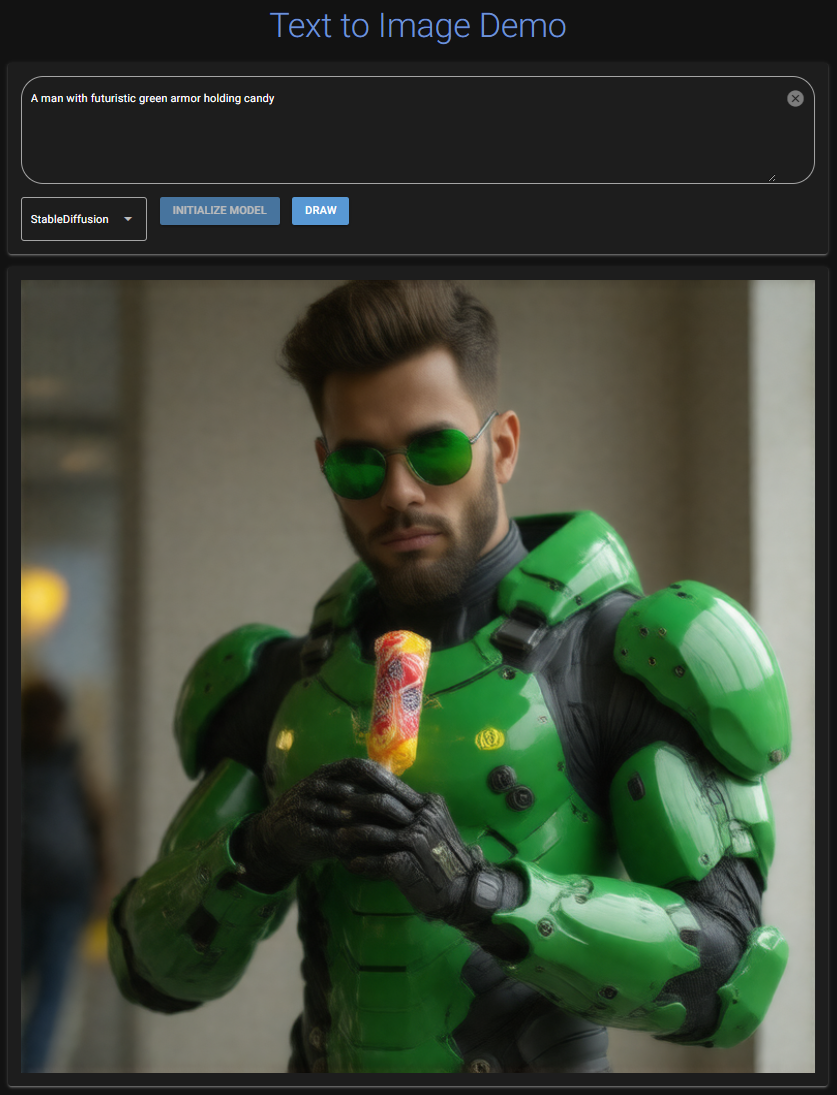
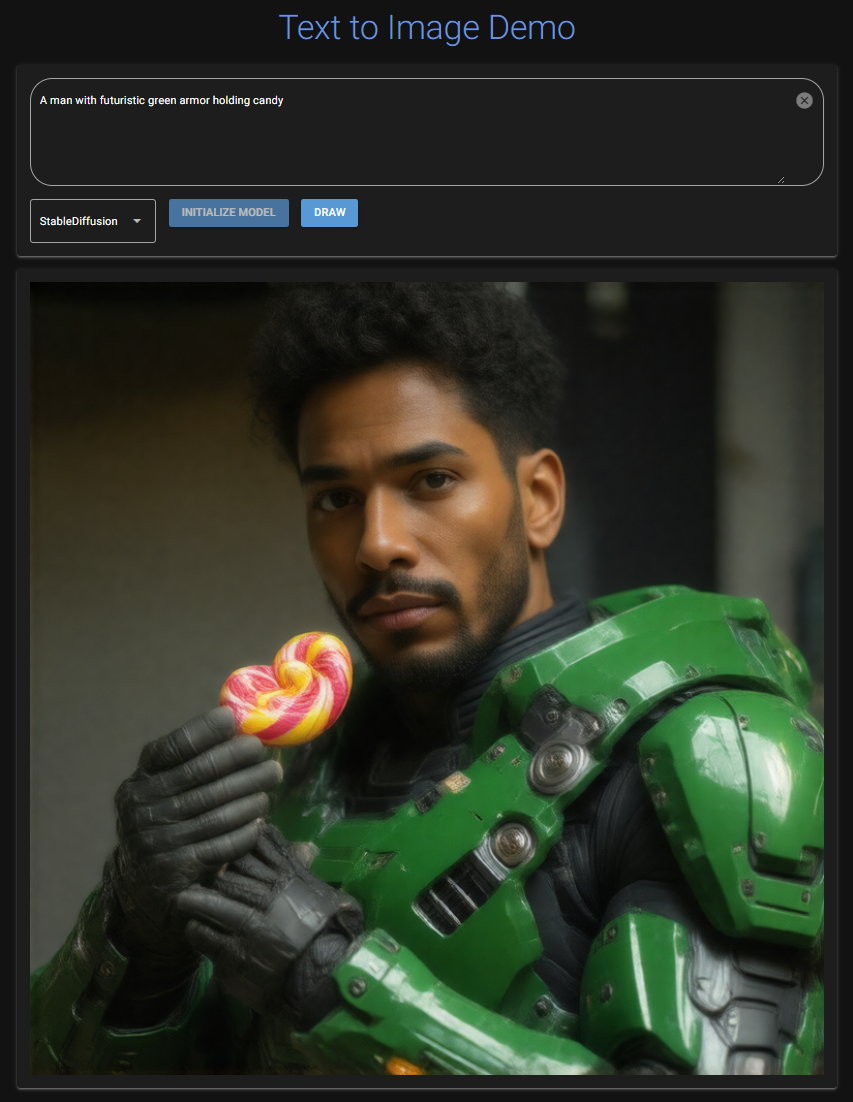
use quantize 4bit for flux.1

diff --git a/src/models/text2image/flux1.py b/src/models/text2image/flux1.py
@@ -1,9 +1,8 @@
 """Flux.1 implementation"""
-
 from .base_model import BaseT2IModel
 import torch
-from diffusers import FluxPipeline, FluxTransformer2DModel
-from transformers import T5EncoderModel, BitsAndBytesConfig
+from diffusers import FluxPipeline, FluxTransformer2DModel, BitsAndBytesConfig
+from transformers import T5EncoderModel
 
 
 class Flux1(BaseT2IModel):
@@ -14,12 +13,10 @@ class Flux1(BaseT2IModel):
         """Initialize model"""
         bfl_repo = "black-forest-labs/FLUX.1-schnell"
         dtype = torch.bfloat16
-        quantization_config = BitsAndBytesConfig(load_in_8bit=True)
-        text_encoder_2 = T5EncoderModel.from_pretrained(
-            bfl_repo, 
-            subfolder="text_encoder_2", 
-            quantization_config=quantization_config, 
-            torch_dtype=dtype
+        quantization_config = BitsAndBytesConfig(
+            load_in_4bit=True,
+            bnb_4bit_quant_type="nf4",
+            bnb_4bit_compute_dtype=dtype
         )
         transformer = FluxTransformer2DModel.from_pretrained(
             bfl_repo, 
@@ -27,14 +24,13 @@ class Flux1(BaseT2IModel):
             quantization_config=quantization_config, 
             torch_dtype=dtype
         )
+        t5_nf4 = T5EncoderModel.from_pretrained("diffusers/t5-nf4", torch_dtype=dtype)
         pipe = FluxPipeline.from_pretrained(
             bfl_repo,
-            text_encoder_2=None,
-            transformer=None,
-            torch_dtype=torch.bfloat16
+            text_encoder_2=t5_nf4,
+            transformer=transformer,
+            torch_dtype=dtype
         )
-        pipe.text_encoder_2 = text_encoder_2
-        pipe.transformer = transformer
         pipe = pipe.to("cuda")
         self.pipe = pipe
 
@@ -43,8 +39,7 @@ class Flux1(BaseT2IModel):
             prompt,
             width=768,
             height=768,
-            guidance_scale=3.5,
-            num_inference_steps=4,
-            generator=torch.Generator("cpu").manual_seed(0)
+            guidance_scale=2.0,
+            num_inference_steps=4
         ).images[0]
         return image

diff --git a/src/models/text2image/stable_diffusion.py b/src/models/text2image/stable_diffusion.py
@@ -1,3 +1,4 @@
+"""Stable Diffusion 3.5 Large Turbo"""
 from .base_model import BaseT2IModel
 import torch
 from diffusers import StableDiffusion3Pipeline, BitsAndBytesConfig, SD3Transformer2DModel
@@ -11,23 +12,24 @@ class StableDiffusion(BaseT2IModel):
     def _init_model(self):
         """Initialize model"""
         model_id = "stabilityai/stable-diffusion-3.5-large-turbo"
+        dtype = torch.bfloat16
         nf4_config = BitsAndBytesConfig(
             load_in_4bit=True,
             bnb_4bit_quant_type="nf4",
-            bnb_4bit_compute_dtype=torch.bfloat16
+            bnb_4bit_compute_dtype=dtype
         )
         model_nf4 = SD3Transformer2DModel.from_pretrained(
             model_id,
             subfolder="transformer",
             quantization_config=nf4_config,
-            torch_dtype=torch.bfloat16
+            torch_dtype=dtype
         )
-        t5_nf4 = T5EncoderModel.from_pretrained("diffusers/t5-nf4", torch_dtype=torch.bfloat16)
+        t5_nf4 = T5EncoderModel.from_pretrained("diffusers/t5-nf4", torch_dtype=dtype)
         pipe = StableDiffusion3Pipeline.from_pretrained(
             model_id, 
             transformer=model_nf4,
             text_encoder_3=t5_nf4,
-            torch_dtype=torch.bfloat16
+            torch_dtype=dtype
         )
         pipe = pipe.to("cuda")
         self.pipe = pipe

diff --git a/src/models/text2image/stable_diffusion_art.py b/src/models/text2image/stable_diffusion_art.py
@@ -1,3 +1,4 @@
+"""Stable Diffusion 3.5 Medium Turbo from TensorArt"""
 from .base_model import BaseT2IModel
 import torch
 from diffusers import StableDiffusion3Pipeline
@@ -10,9 +11,10 @@ class StableDiffusionArt(BaseT2IModel):
     def _init_model(self):
         """Initialize model"""
         model_id = "tensorart/stable-diffusion-3.5-medium-turbo"
+        dtype = torch.float16
         pipe = StableDiffusion3Pipeline.from_pretrained(
-            model_id, 
-            torch_dtype=torch.float16
+            model_id,
+            torch_dtype=dtype
         )
         pipe = pipe.to("cuda")
         self.pipe = pipe

diff --git a/readme.md b/readme.md
@@ -6,7 +6,7 @@ This repo contains demo for generating image based on user prompt. It runs model
 - [x] Implement Flux.1.
 - [x] Refactor text-to-image models to factory approach.
 - [x] Add model switch.
-- [ ] Explore storage in NiceGUI.
+- [ ] Explore storage in NiceGUI to control session states.
 - [ ] To explore Auto1111sdk.
 
 ## How to install
@@ -22,7 +22,7 @@ This repo contains demo for generating image based on user prompt. It runs model
 3. In terminal, after activating `sd` environment, type `huggingface-cli login` and key in the created access token to login.
 
 ## How to run
-1. Run the following command: `PYTORCH_CUDA_ALLOC_CONF=garbage_collection_threshold:0.9,max_split_size_mb:512 streamlit run main.py`
+1. Run the following command: `python src/nicegui_test.py`
 2. Open the Local URL in a browser.
 
 ## Example
